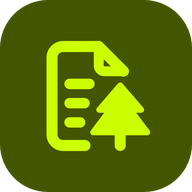
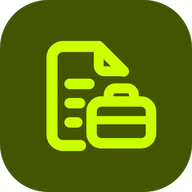
feat(brand): swap tree accent for job briefcase in CV Spruce emblem

Changed region(s): [[0.4062, 0.4062, 0.8438, 0.8125]]

diff --git a/src/components/layout/SpruceLogo.tsx b/src/components/layout/SpruceLogo.tsx
@@ -2,9 +2,9 @@ import { SVGProps } from "react";
 import { cn } from "@/lib/utils";
 
 /**
- * Custom CV Spruce brand emblem: a tailored CV sheet paired with a crisp
- * two-tier evergreen spruce crest. Designed to stay razor-sharp from 16px
- * favicon/nav sizes up to large hero/PWA badges.
+ * Custom CV Spruce brand emblem: a structured CV sheet paired with a crisp
+ * job briefcase — representing tailoring CVs and landing roles. Designed to
+ * stay razor-sharp from 16px favicon/nav sizes up to PWA icons.
  */
 export function SpruceLogo({ className, ...props }: SVGProps<SVGSVGElement>) {
   return (
@@ -18,7 +18,7 @@ export function SpruceLogo({ className, ...props }: SVGProps<SVGSVGElement>) {
     >
       {/* CV sheet outline with folded corner */}
       <path
-        d="M12.5 3H6a2 2 0 0 0-2 2v14a2 2 0 0 0 2 2h4"
+        d="M12.5 3H6a2 2 0 0 0-2 2v14a2 2 0 0 0 2 2h3.2"
         stroke="currentColor"
         strokeWidth="2"
         strokeLinecap="round"
@@ -40,23 +40,31 @@ export function SpruceLogo({ className, ...props }: SVGProps<SVGSVGElement>) {
       />
       {/* Resume lines */}
       <path
-        d="M7.2 9.8h3.6M7.2 13.3h2.7M7.2 16.8h1.9"
+        d="M7.2 9.8h3.6M7.2 13.3h1.9M7.2 16.8h1.4"
         stroke="currentColor"
         strokeWidth="1.9"
         strokeLinecap="round"
       />
-      {/* Two-tier geometric Spruce tree */}
+      {/* Job briefcase */}
       <path
-        d="M16.4 10.1 12.6 14.5h2l-3.1 4.1h9.8l-3.1-4.1h2l-3.8-4.4Z"
-        fill="currentColor"
+        d="M14.3 13v-1.2a1.2 1.2 0 0 1 1.2-1.2h2.2a1.2 1.2 0 0 1 1.2 1.2V13"
         stroke="currentColor"
-        strokeWidth="1.1"
-        strokeLinejoin="round"
+        strokeWidth="1.8"
+        strokeLinecap="round"
+      />
+      <rect
+        x="11.2"
+        y="13"
+        width="10.8"
+        height="7.6"
+        rx="1.8"
+        stroke="currentColor"
+        strokeWidth="1.9"
       />
       <path
-        d="M16.4 18.6V21"
+        d="M11.6 16.4h10"
         stroke="currentColor"
-        strokeWidth="2"
+        strokeWidth="1.5"
         strokeLinecap="round"
       />
     </svg>
